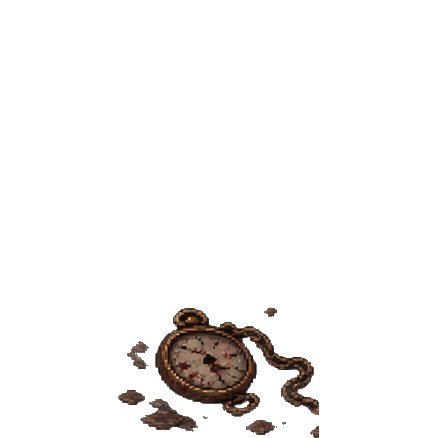
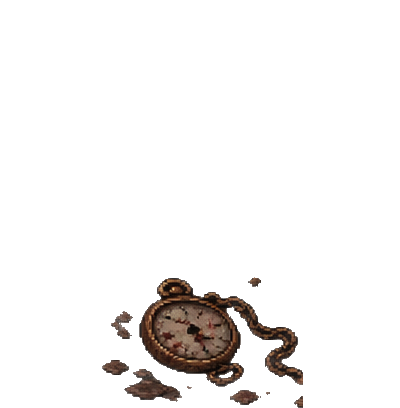
Relogio de bolso: o sprite vinha com o texto da folha gravado dentro
O close da HIGHSFIELD 01 mostrava "ABERTO", "(~200px)" e "03:" em cima do
desenho, mais o fim do titulo "...LSO" e o filete da secao. Em tela cheia, por
tres segundos.

A causa: `LimparAnotacoes` so apaga componente que seja >=60% VERMELHO. Nas
folhas de personagem isso basta, porque os rotulos dela sao vermelhos. Na folha
de OBJETOS os subtitulos sao CLAROS — passavam inteiros pelo filtro. E
`objetos.json` era a unica config sem `limparAnotacoes`, entao nem os vermelhos
saiam.

O fatiador ganhou `apagar`: uma lista de retangulos zerados antes da analise. A
regiao e DITA, nao adivinhada — nenhuma heuristica nova, nenhum risco de comer
parte do desenho. 933 px de legenda saíram. A caixa tambem encolheu de x2 665
para 645, que era onde comecava a moldura do quadro "DETALHE DOS PONTEIROS".

Junto, tres coisas da mesma cena:

O close tinha a altura 428 escrita no codigo. O refatiamento deixou o desenho
com 408 e o numero virou mentira em silencio. Agora sai da propria textura.

O zoom de 6-9 s caiu de 1,9x para 1,45x, e a mira mudou. Em 1,9 a cabeca do
Coelho enchia o quadro com as orelhas cortadas. E a mira apontava ACIMA da
cabeca dele (-40), o que empurrava os dois para o rodape — o ponto mirado e o
que vai para o centro da tela. Agora mira o relogio na mao dele, e o §32 fica
literal: a camera aproxima do relogio, com a cena ainda em volta.

O pan expunha a beirada direita do cenario, com corte reto entre o comodo e o
[…]

Changed region(s): [[0.24, 0.6765, 0.78, 1.0]]

diff --git a/src/scenes/Highsfield01Scene.js b/src/scenes/Highsfield01Scene.js
@@ -57,6 +57,18 @@ export class Highsfield01Scene extends Phaser.Scene {
 
     this.palco = this.add.container(meioX, meioY);
 
+    // O VAZIO ATRAS DO CENARIO
+    //
+    // O desenho do quarto cobre a tela em repouso, mas a camera desta cena
+    // ANDA: quando ela aproxima e desloca para o Coelho, a beirada direita do
+    // desenho entra no quadro e aparece um corte reto entre o comodo e o preto.
+    // Este retangulo mora atras de tudo, dentro do palco, e e grande o
+    // bastante para nenhum enquadramento alcancar o fim dele. Na cor mais
+    // escura da parede, e nao preto puro: assim a transicao nao tem linha.
+    this.add.existing(this.vazio = this.add
+      .rectangle(0, 0, 4200, 3000, 0x0c1016)
+      .setOrigin(0.5));
+
     const fundo = this.add.image(0, 0, 'fase1-quarto').setOrigin(0.5);
     // Cobre a tela sem esticar: o que sobra nas beiradas some no escuro.
     const escala = Math.max(largura / fundo.width, altura / fundo.height);
@@ -66,6 +78,9 @@ export class Highsfield01Scene extends Phaser.Scene {
     // Onde as duas figuras pisam, medido no desenho de 960x640.
     const chao = (480 - 320) * escala;
     const naArte = (x) => (x - 480) * escala;
+    // A linha do tempo mira por aqui: sem guardar, a camera so sabe apontar
+    // para o centro do desenho, que nao e onde ninguem esta.
+    this.chao = chao;
 
     this.alice = this.add
       .image(naArte(360), chao, 'alice/grande-parada-0')
@@ -77,18 +92,32 @@ export class Highsfield01Scene extends Phaser.Scene {
       .setOrigin(0.5, 1)
       .setScale(escala * 0.52);
 
-    this.palco.add([fundo, this.alice, this.coelho]);
+    this.palco.add([this.vazio, fundo, this.alice, this.coelho]);
 
     // Escuridao por cima de tudo, menos de um halo em volta dos dois.
     this.montarPenumbra();
 
     // O close do relogio entra depois, por cima. E o proprio desenho dela do
     // relogio de bolso aberto, ja marcando 03:17.
+    // A altura vem da TEXTURA, nao de um numero escrito aqui. O desenho ja foi
+    // refatiado uma vez (tinha vindo com o texto da folha gravado dentro) e o
+    // 428 que morava aqui virou mentira em silencio: o close encolhia sozinho.
+    // O VEU DO CLOSE
+    //
+    // Entre a cena e o relogio. Sem ele o close vira adesivo colado por cima do
+    // quarto: tudo continua igualmente nitido e o olho nao sabe onde pousar.
+    // Com ele o comodo RECUA, e a Alice fica "parcialmente ao fundo" — que e
+    // exatamente a palavra do §32 para 9-12 s.
+    this.veu = this.add
+      .rectangle(meioX, meioY, largura * 2, altura * 2, 0x000000, 1)
+      .setAlpha(0)
+      .setDepth(450);
+
     this.close = this.add
       .image(meioX, meioY, 'relogio-bolso-aberto')
-      .setScale(Math.min(1, (altura * 0.72) / 428))
       .setAlpha(0)
       .setDepth(500);
+    this.close.setScale(Math.min(1, (altura * 0.72) / this.close.height));
   }
 
   montarPenumbra() {
@@ -148,13 +177,24 @@ export class Highsfield01Scene extends Phaser.Scene {
     c.em(6000, () => {
       AudioManager.pararAmbiente(600);
       AudioManager.tocarAmbiente('ambiente.tictac', 900);
-      this.aproximar(this.coelho.x * 0.8, -40, 1.9, 3000);
+
+      // 1,45x, e nao 1,9x. Em 1,9 a cabeca do Coelho enchia o quadro e as
+      // orelhas saiam cortadas pelo topo — vira retrato, e o §32 pede que a
+      // camera se aproxime DO RELOGIO, com a cena ainda em volta.
+      //
+      // A mira e o relogio na MAO dele, nao o corpo: `chao` menos meia altura.
+      // Mirar acima da cabeca (era -40) empurrava os dois para o rodape do
+      // quadro, porque o ponto mirado e o que vai para o centro da tela.
+      this.aproximar(this.coelho.x + 14, this.chao - 62, 1.45, 3000);
     });
 
     // 9-12 s — close no relogio. Os ponteiros ainda funcionam.
     c.em(9000, () => {
       this.tweens.add({ targets: this.close, alpha: 1, duration: 900 });
-      this.tweens.add({ targets: this.penumbra, alpha: 0.55, duration: 900 });
+      // O veu entra JUNTO com o relogio, na mesma duracao: o comodo apaga na
+      // mesma velocidade em que o objeto aparece. A penumbra fica onde esta —
+      // abaixa-la aqui clareava a cena bem na hora de escurece-la.
+      this.tweens.add({ targets: this.veu, alpha: 0.62, duration: 900 });
     });
 
     // 12-14 s — TIC. Silencio. O TAC nao acontece.
@@ -167,7 +207,7 @@ export class Highsfield01Scene extends Phaser.Scene {
     // de que alguma coisa esta errada.
     c.em(14000, () => {
       this.tweens.add({ targets: this.close, alpha: 0, duration: 700 });
-      this.tweens.add({ targets: this.penumbra, alpha: 1, duration: 700 });
+      this.tweens.add({ targets: this.veu, alpha: 0, duration: 700 });
       this.aproximar(0, 0, 1.24, 2600);
       this.coelho.setTexture('coelho/estranha');
     });
